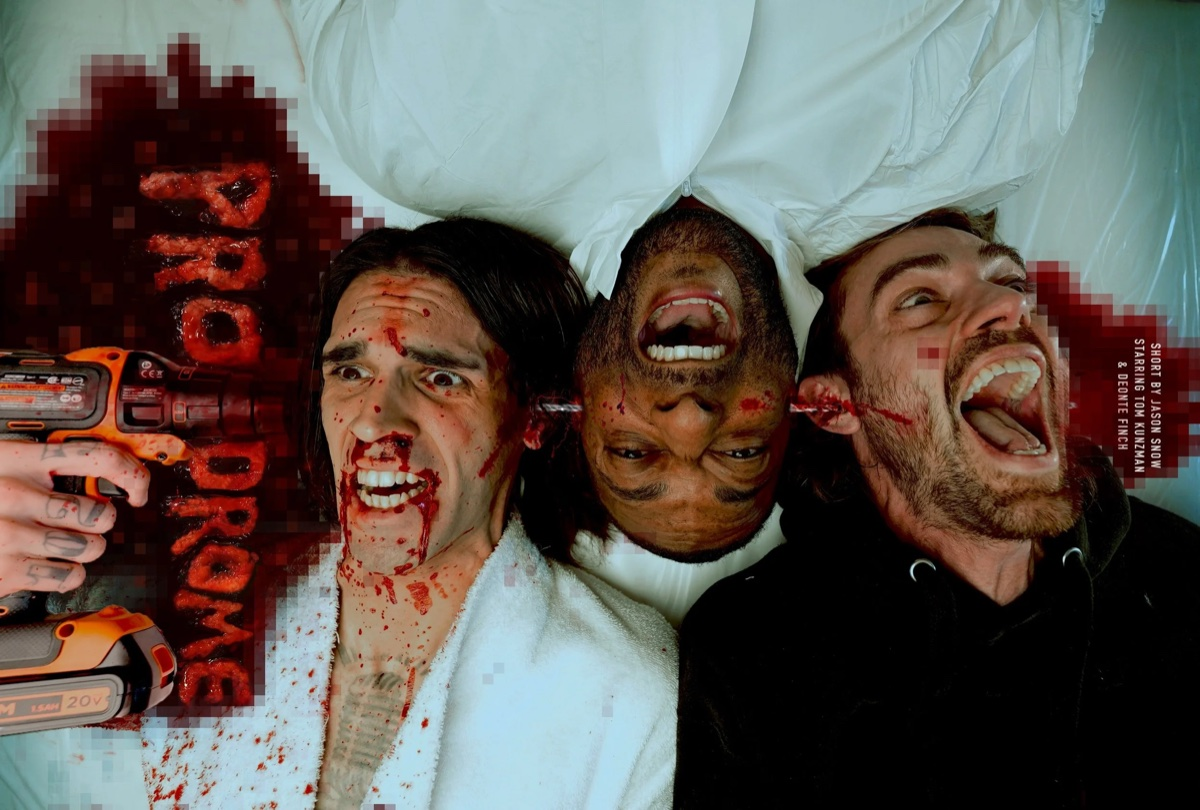
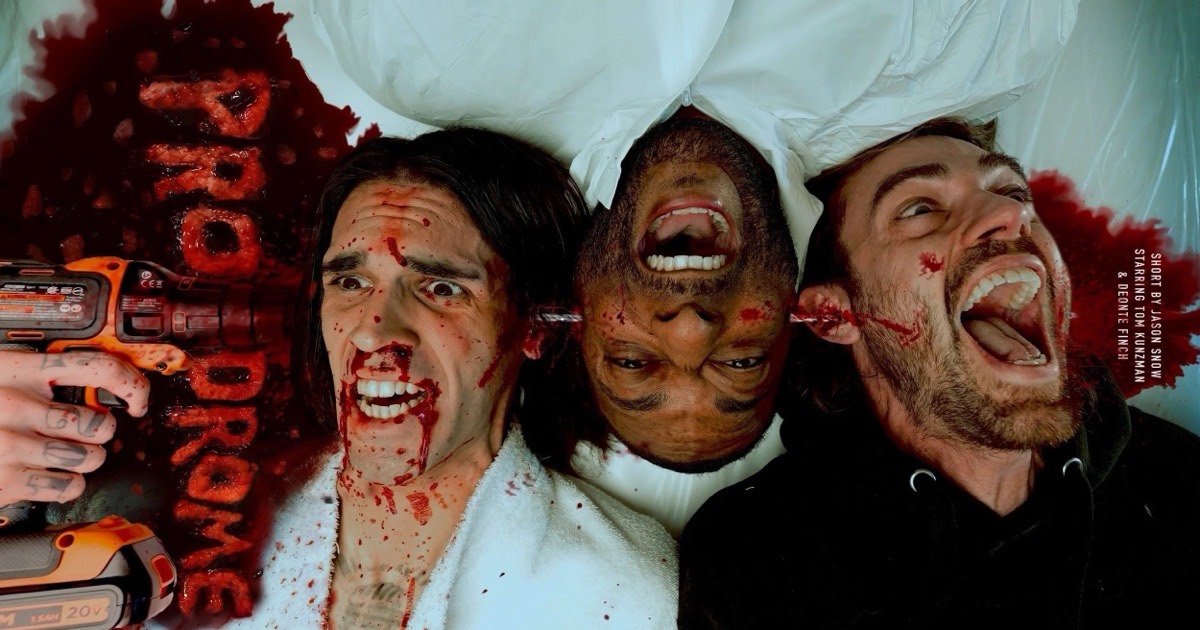
Resize the share image to 1200x630 so previews are not cropped
At 1200x810 the card sat at 1.48:1, so X center-cropped it to 2:1 and
cut the title off top and bottom. 1200x630 is what Facebook and LinkedIn
ask for and survives X's crop with the title and all three faces intact.

diff --git a/index.html b/index.html
@@ -20,7 +20,7 @@
     <meta property="og:image" content="https://theprodrome.com/assets/images/og-share-image.jpg">
     <meta property="og:image:type" content="image/jpeg">
     <meta property="og:image:width" content="1200">
-    <meta property="og:image:height" content="810">
+    <meta property="og:image:height" content="630">
     <meta property="og:image:alt" content="Prodrome movie poster">
     <meta name="twitter:card" content="summary_large_image">
     <meta name="twitter:title" content="Prodrome | A Short Horror Film by Jason Snow">
